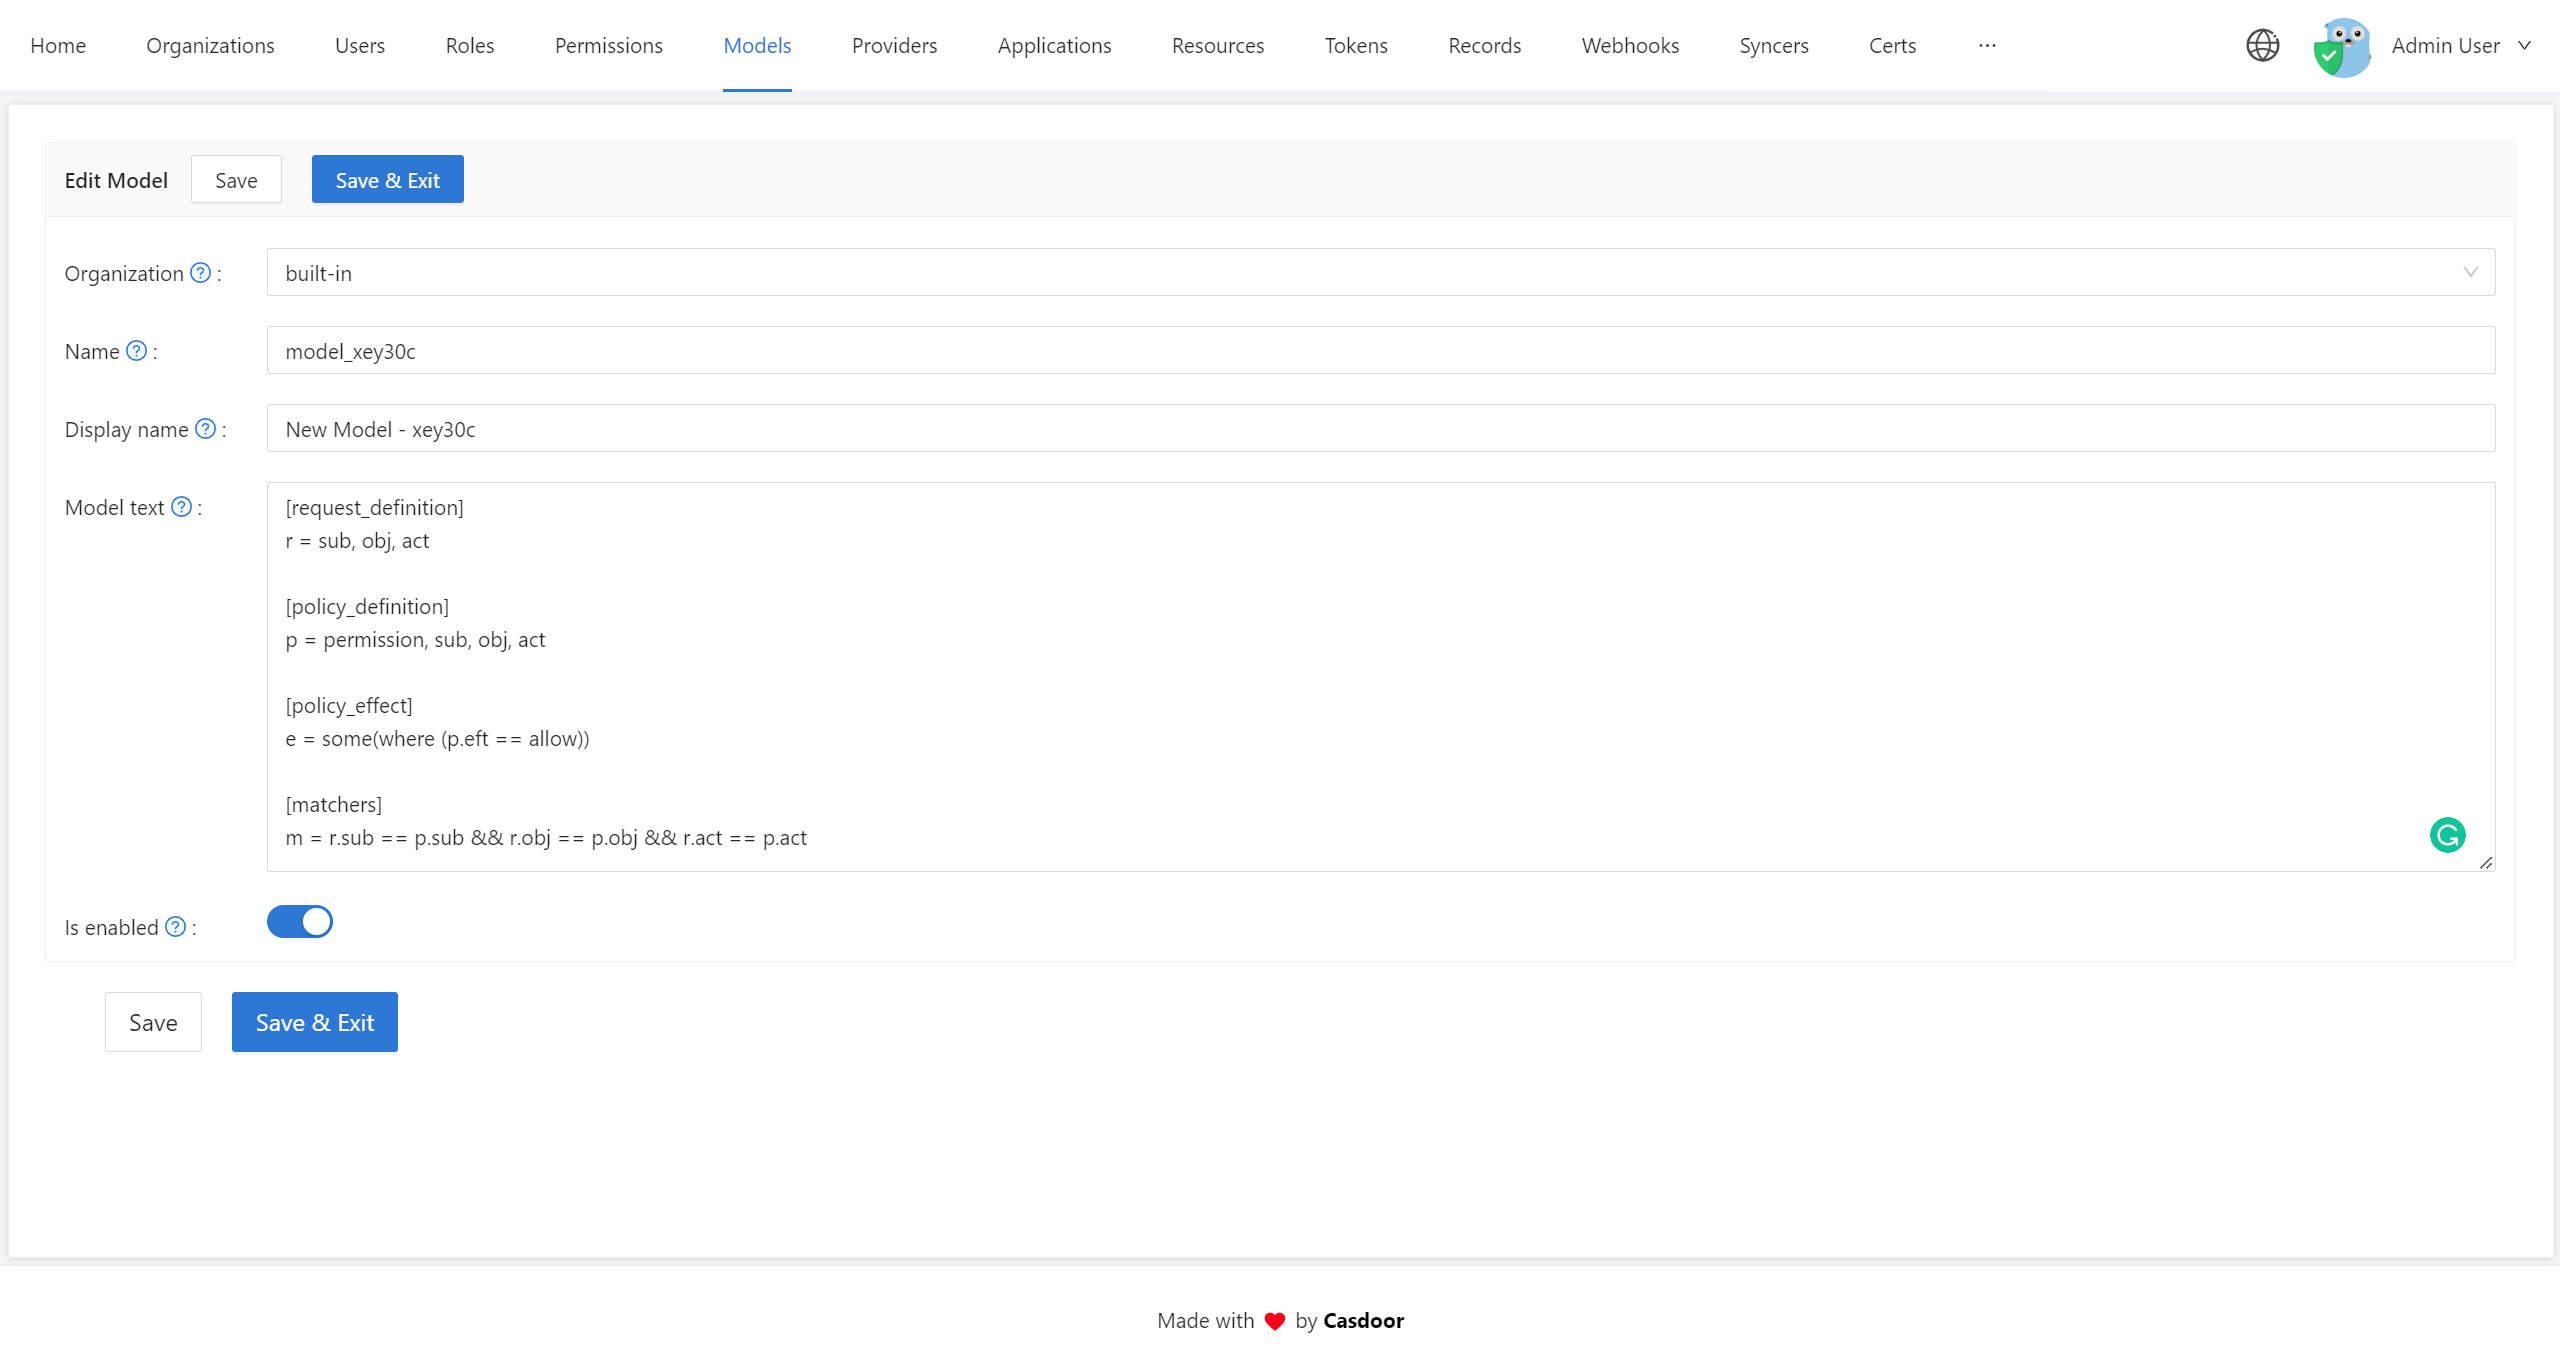
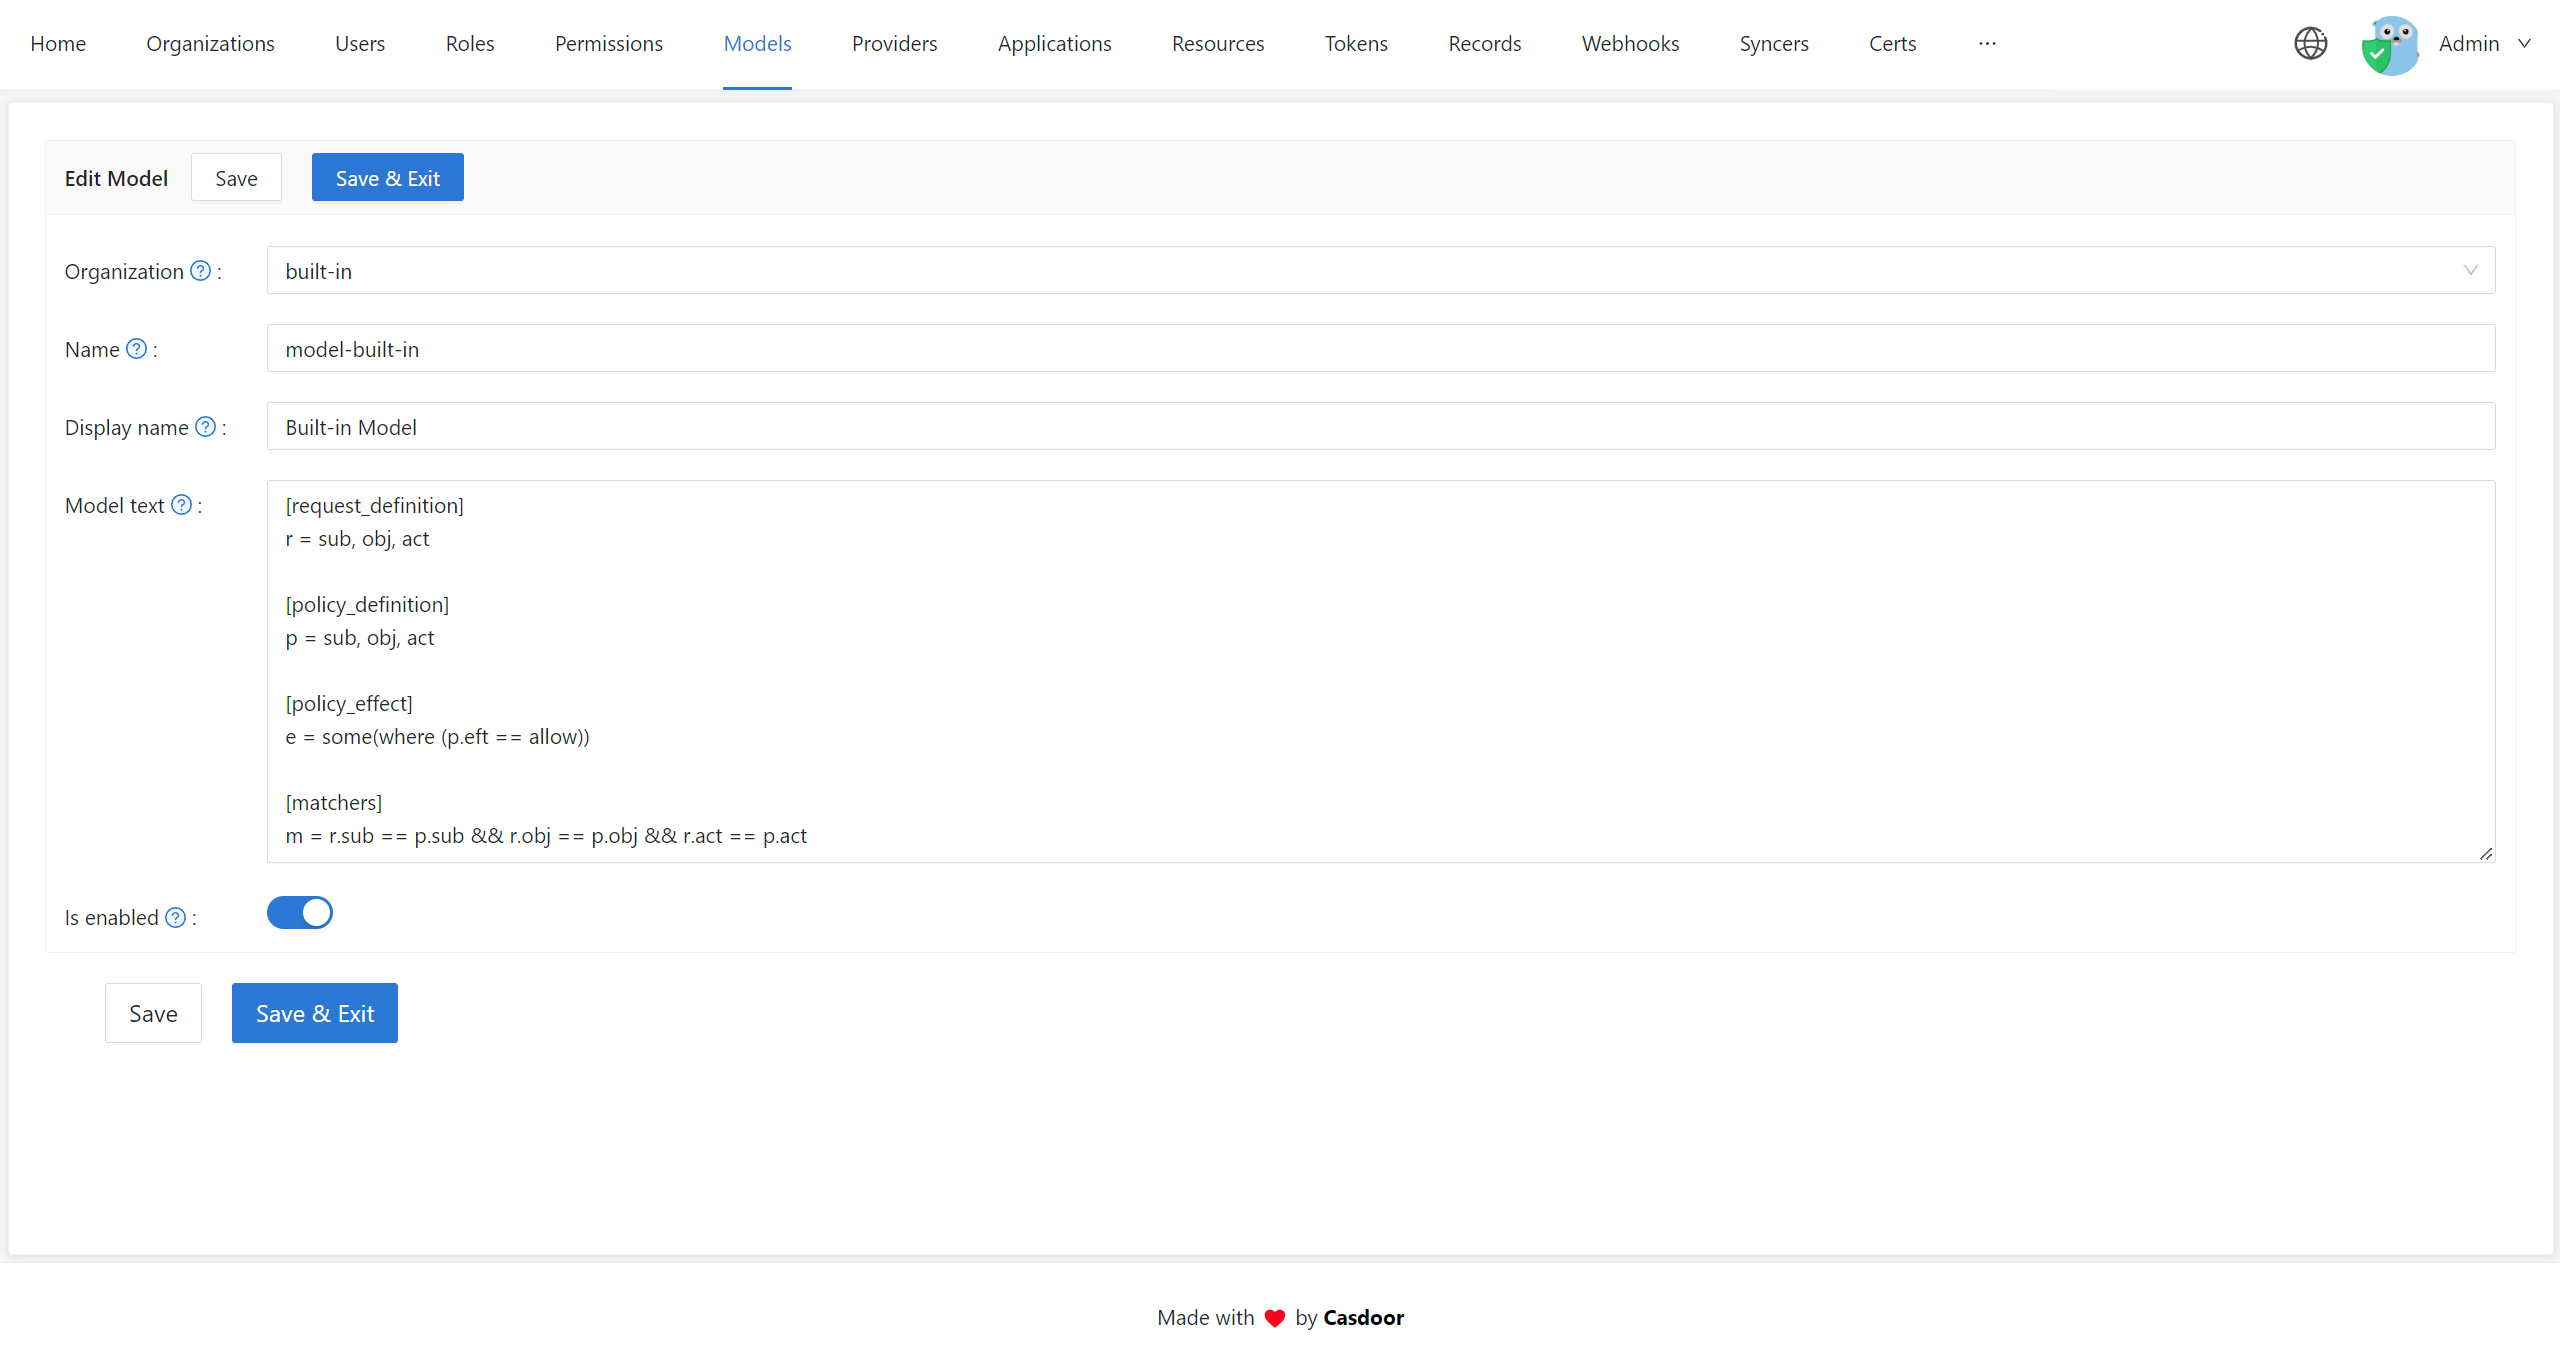
feat: add casbin enforcement page

diff --git a/sidebars.js b/sidebars.js
@@ -81,6 +81,7 @@ module.exports = {
       collapsed: false,
       items: [
         'permission/overview',
+        'permission/casbin-enforcement',
       ],
     },
     {

diff --git a/docs/permission/overview.md b/docs/permission/overview.md
@@ -14,7 +14,7 @@ See the following example to get a clearer picture of Casdoor's permission contr
 
 ## Permission for applications
 
-Before using `Permission`, you need to create a `Model` which is abstracted into a CONF file based on the PERM metamodel. You can visit the [Casbin documentation](https://casbin.io/docs/syntax-for-models) for more information. 
+Before using `Permission`, you need to create a `Model` which is abstracted into a CONF file based on the PERM metamodel. You can visit the [Casbin documentation](https://casbin.io/docs/syntax-for-models) for more information. We recommend using the [Casbin Online Editor](https://casbin.org/casbin-editor/) to design the model and check the grammar. 
 
 Click the `Models` tab and add a new model. In the edit page, you can config custom model such as ACL model in the `Model text`.
 
@@ -23,7 +23,7 @@ Click the `Models` tab and add a new model. In the edit page, you can config cus
 r = sub, obj, act
 
 [policy_definition]
-p = permission, sub, obj, act
+p = sub, obj, act
 
 [policy_effect]
 e = some(where (p.eft == allow))
@@ -34,13 +34,13 @@ m = r.sub == p.sub && r.obj == p.obj && r.act == p.act
 
 ![](/img/model_edit.png)
 
-:::info
-You need to pay special attention to the fact that the first parameter of the policy definition needs to be **permission** in order to distinguish the policies with different permissions in the `permission_rule` table.
-:::
-
-Click the `Permissions` tab and add a new permission. In the edit page, you need to select the model, sub users, resources and actions as below.  
+Click the `Permissions` tab and add a new permission. In the edit page, you need to select the model, adapter, sub users, resources and actions as below.  
 
 ![](/img/permission_edit.png)
+
+:::info
+The `Adapter` field supports specifying the table name where the policies are stored. If this field is empty, the policies are storing in the `permission_rule` table. We strongly recommend **specifying different Adapter for different models**, becaues it's likely to cause conflicts for storing all policies in the same table. 
+:::
 
 After saving, the user `test`, `seriouszyx` and `admin` can login to the application `app-built-in`. The other users such as `casdoortest` cannot. 
 

diff --git a/docs/permission/casbin-enforcement.md b/docs/permission/casbin-enforcement.md
@@ -1,0 +1,108 @@
+---
+title: Casbin Enforcement
+description: Using exposed Casbin APIs to manage users' access rights in organization
+keywords: [permission, Casbin]
+---
+
+## Exposed Casbin APIs
+
+At the underlying of casdoor, each permission corresponds to a casbin enforcer, we provide some APIs to call these enforcers directly. You can use them to achieve more flexible permission management functions.
+
+We will show some examples of using these APIs, the permission is shown below.
+
+![](/img/permission_edit.png)
+
+:::tip
+You should log in to the Casdoor and get `casdoor_session_id` from cookies.
+:::
+
+### Enforce
+
+Request:
+
+```shell
+curl --location --request POST 'http://localhost:8000/api/enforce' \
+--header 'Content-Type: text/plain' \
+--header 'Cookie: casdoor_session_id=b1888c74a7903f1813bf8c34269b0118' \
+--data-raw '{"id":"built-in/permission-built-in", "v1":"app-built-in", "v2":"write"}'
+```
+
+Response:
+
+```
+true
+```
+
+### BatchEnforce
+
+Request:
+
+```shell
+curl --location --request POST 'http://localhost:8000/api/batch-enforce' \
+--header 'Content-Type: text/plain' \
+--header 'Cookie: casdoor_session_id=b1888c74a7903f1813bf8c34269b0118' \
+--data-raw '[{"id":"built-in/permission-built-in", "v1":"app-built-in", "v2":"write"}, {"id":"built-in/permission-built-in", "v1":"app-built-in", "v2":"read"}, {"id":"built-in/permission-built-in", "v1":"app-casnode", "v2":"write"}]'
+```
+
+Response:
+
+```
+[
+    true,
+    true,
+    false
+]
+```
+
+### GetAllObjects
+
+Request:
+
+```shell
+curl --location --request GET 'http://localhost:8000/api/get-all-objects' \
+--header 'Cookie: casdoor_session_id=b1888c74a7903f1813bf8c34269b0118'
+```
+
+Response:
+
+```
+[
+    "app-built-in"
+]
+```
+
+### GetAllActions
+
+Request:
+
+```shell
+curl --location --request GET 'http://localhost:8000/api/get-all-actions' \
+--header 'Cookie: casdoor_session_id=b1888c74a7903f1813bf8c34269b0118'
+```
+
+Response:
+
+```
+[
+    "read",
+    "write",
+    "admin"
+]
+```
+
+### GetAllRoles
+
+Request: 
+
+```shell
+curl --location --request GET 'http://localhost:8000/api/get-all-roles' \
+--header 'Cookie: casdoor_session_id=b1888c74a7903f1813bf8c34269b0118'
+```
+
+Response:
+
+```
+[
+    "role_kcx66l"
+]
+```
